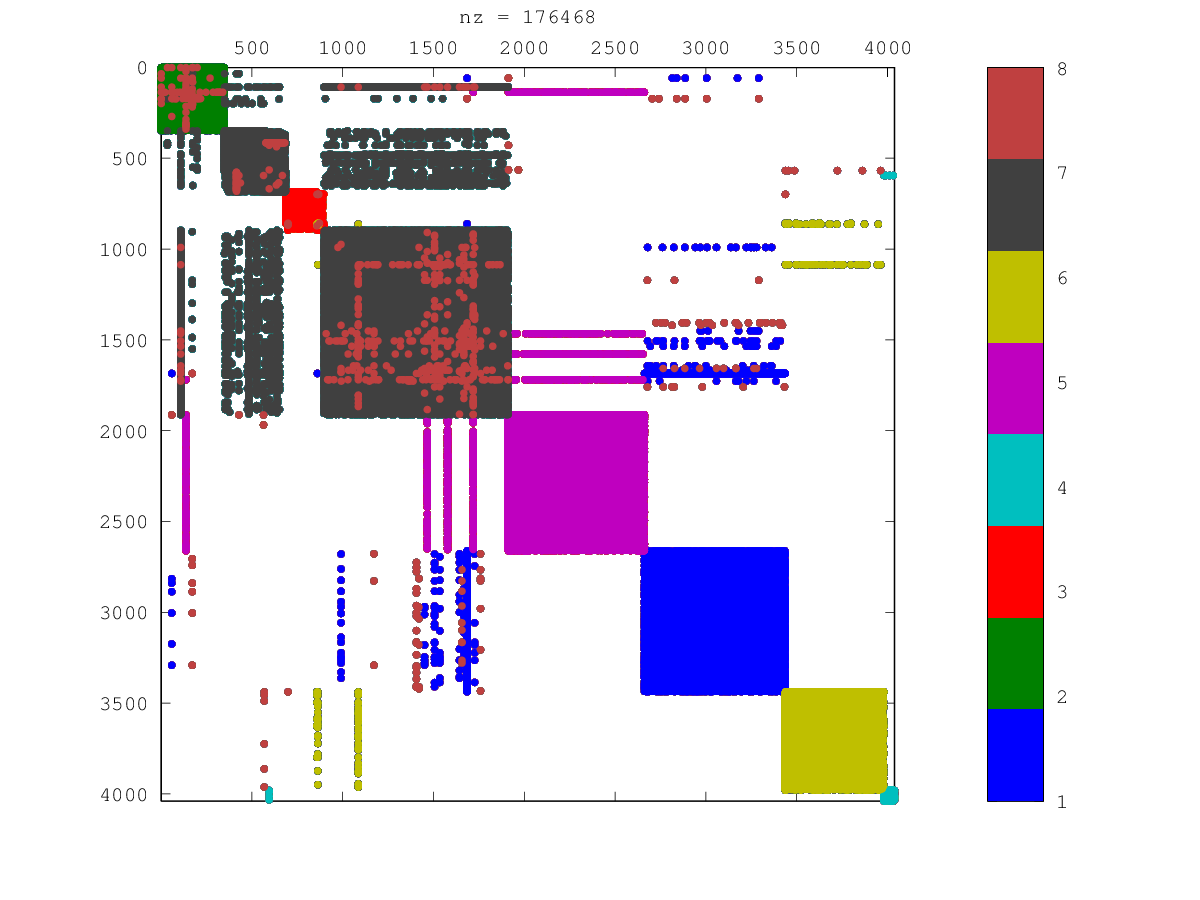
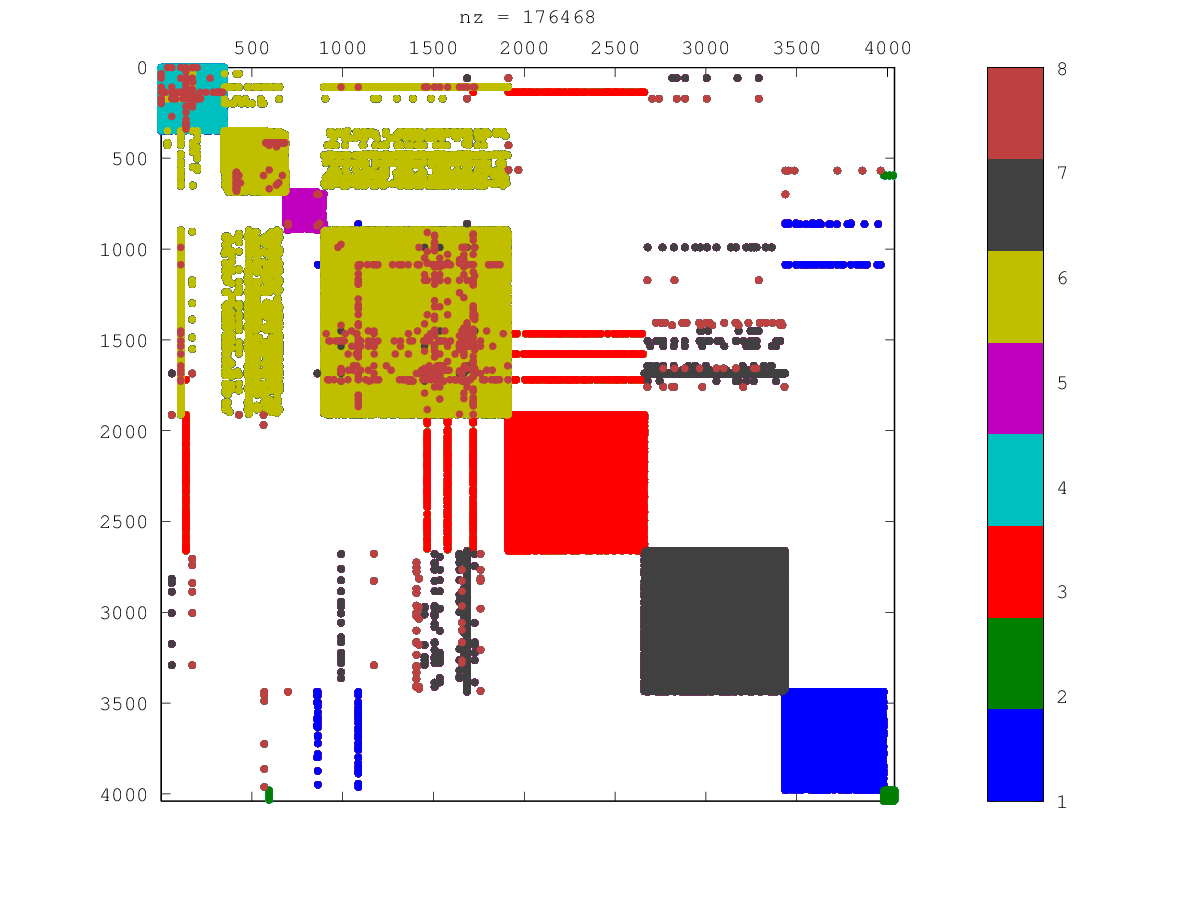
Final presentation

diff --git a/clustering-stats.tex b/clustering-stats.tex
@@ -1,11 +1,11 @@
 \begin{tabular}{rrr}
     2 & 8.00395 & 0.45355 \\
-    3 & 7.02347 & 0.498872 \\
-    4 & 6.02695 & 0.666345 \\
-    5 & 5.04505 & 0.690579 \\
-    6 & 4.04013 & 0.7078 \\
+    3 & 7.02431 & 0.620677 \\
+    4 & 6.03625 & 0.366182 \\
+    5 & 5.04743 & 0.702003 \\
+    6 & 4.15367 & 0.707111 \\
     7 & 3.16027 & 0.709787 \\
-    8 & 2.39683 & 0.711317 \\
-    9 & 2.67809 & 0.497524 \\
-    10 & 2.24729 & 0.640559 \\
+    8 & 2.91544 & 0.594327 \\
+    9 & 2.01538 & 0.606344 \\
+    10 & 1.8553 & 0.57553 \\
 \end{tabular}
